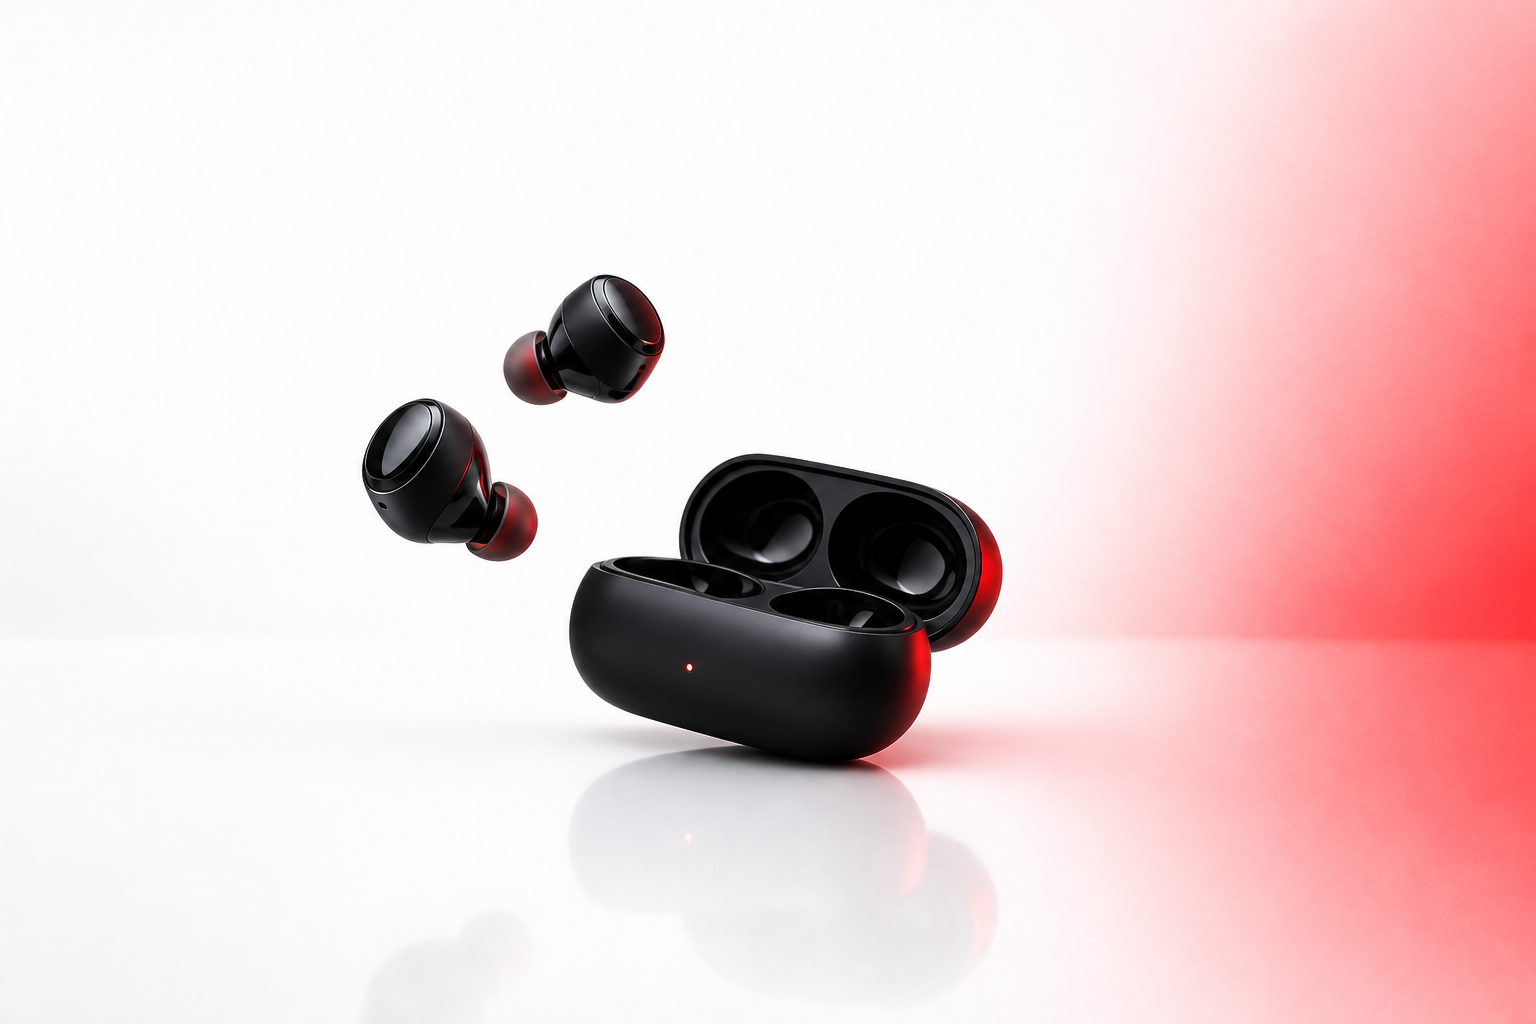
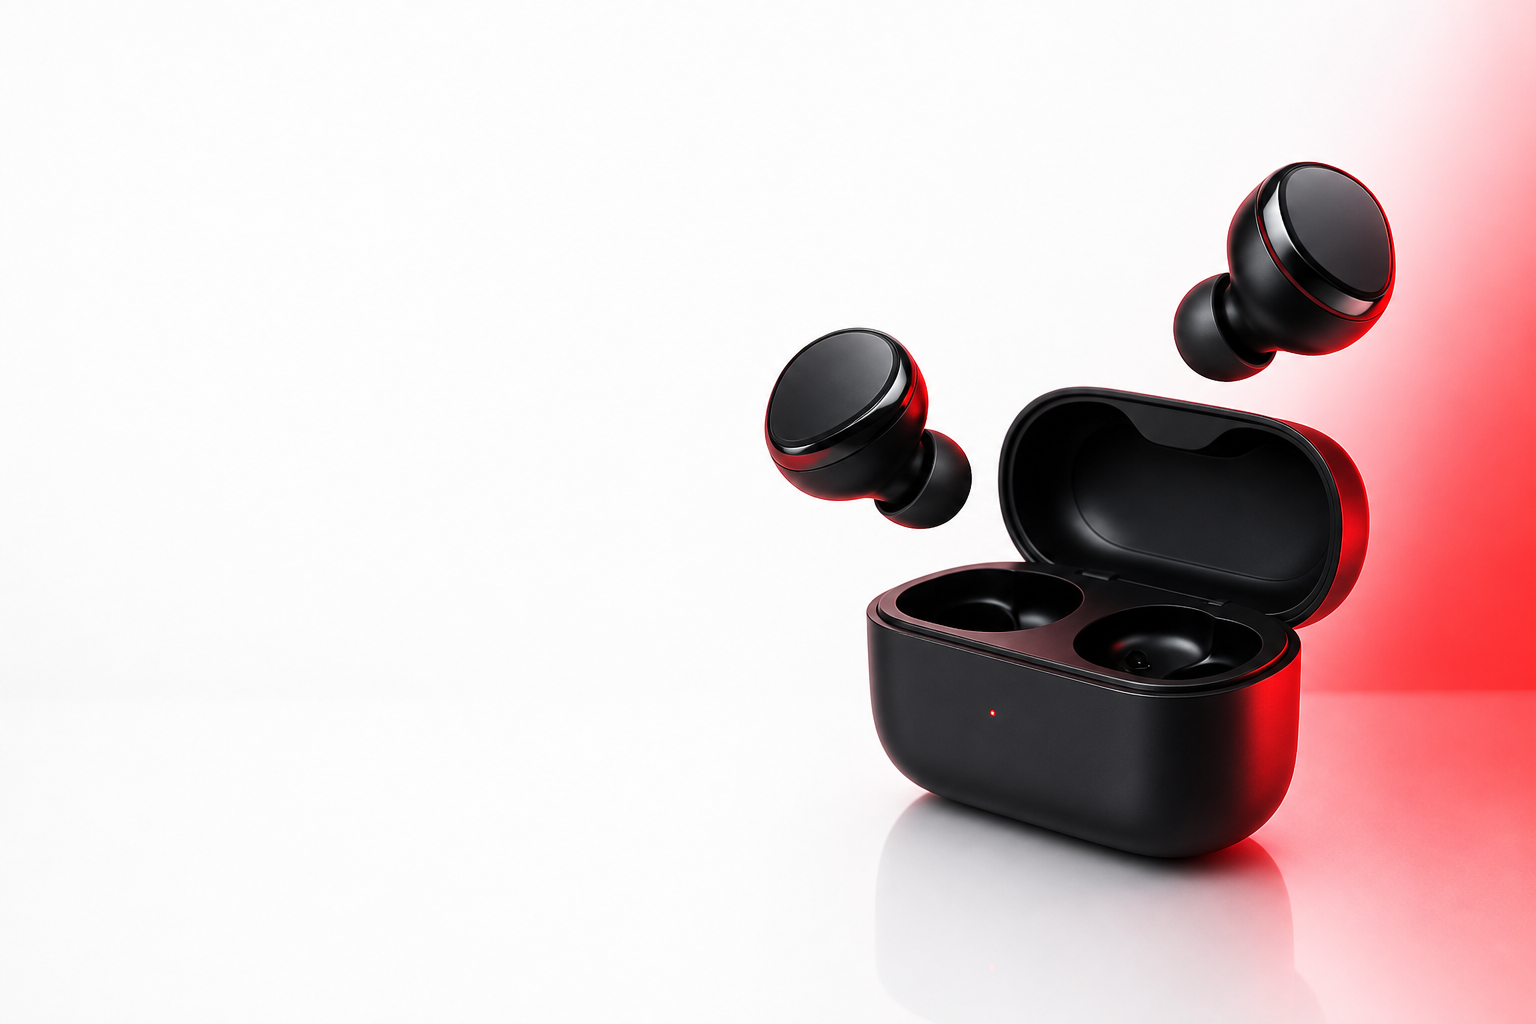
refactor(demo-ux): make the demo store read as a real storefront with Bizmis as a distinct vendor layer
- hero: restore the plain merchant promo slideshow with six new text-free white-studio red-light product slides (generated assets), full-viewport on the homepage, a top scrim for the floating header, and left-column welcome copy whose heading's second line is an underlined "Talk to the clerk." voice CTA; auto-rotate at 4s
- voice demo: move the bizmis-voice-demo flow into its own mid-page section gated on demo mode, with the "This isn't a chatbot" wedge eyebrow and lazy scene loading
- promo bar: switch to Bizmis brand orange (#F9A353/#EC7709) and add a localized demo-store message; install CTA stays as the single conversion action
- widget: re-enable the rotating coachmark with TikTok-style karaoke captions, make it collapsible to a chip (persisted per visitor), and add a one-time attention pulse after mount
- copy: fix "Hot deals" subtitle and rename "Complete your order" to "Complete your setup"

diff --git a/assets/base.css b/assets/base.css
@@ -2121,52 +2121,49 @@ textarea.input {
   color: var(--color-fg, #111);
 }
 
-/* The hero's single conversion action: start a voice chat with the clerk. */
-.hero__cta {
-  display: inline-flex;
-  align-items: center;
-  gap: 0.6rem;
-  margin-top: 0.4rem;
-  padding: 1.05em 1.9em;
-  font-size: 1.05rem;
-  font-weight: 700;
-  background: var(--color-primary);
-  color: var(--color-primary-fg, #fff);
-  box-shadow: 0 18px 38px -16px color-mix(in srgb, var(--color-primary) 65%, transparent);
-  transition: transform 0.2s ease, box-shadow 0.2s ease, background-color 0.2s ease;
+.hero__title-line {
+  display: block;
 }
 
-.hero__cta:hover {
-  transform: translateY(-2px);
-  box-shadow: 0 22px 44px -16px color-mix(in srgb, var(--color-primary) 75%, transparent);
+/* The heading's second line doubles as the conversion action: same scale as
+   the title, brand color, underlined, clickable. */
+.hero__title-cta {
+  display: block;
+  padding: 0;
+  border: 0;
+  background: transparent;
+  font: inherit;
+  letter-spacing: inherit;
+  line-height: inherit;
+  text-align: left;
+  color: var(--color-primary);
+  text-decoration: underline;
+  text-decoration-thickness: 0.055em;
+  text-underline-offset: 0.14em;
+  cursor: pointer;
+  transition: color 0.2s ease, text-decoration-color 0.2s ease;
 }
 
-.hero__cta:disabled {
+.hero__title-cta:hover {
+  text-decoration-thickness: 0.085em;
+}
+
+.hero__title-cta:focus-visible {
+  outline: 2px solid var(--color-primary);
+  outline-offset: 4px;
+  border-radius: 4px;
+}
+
+.hero__title-cta:disabled {
   opacity: 0.45;
   cursor: not-allowed;
   pointer-events: none;
-}
-
-.hero__cta-icon {
-  width: 1.15em;
-  height: 1.15em;
-  flex: 0 0 auto;
 }
 
 @media (max-width: 749px) {
   .hero__content {
     max-width: 100%;
     gap: 0.85rem;
-  }
-
-  .hero__cta {
-    font-size: 0.95rem;
-  }
-}
-
-@media (prefers-reduced-motion: reduce) {
-  .hero__cta:hover {
-    transform: none;
   }
 }
 
